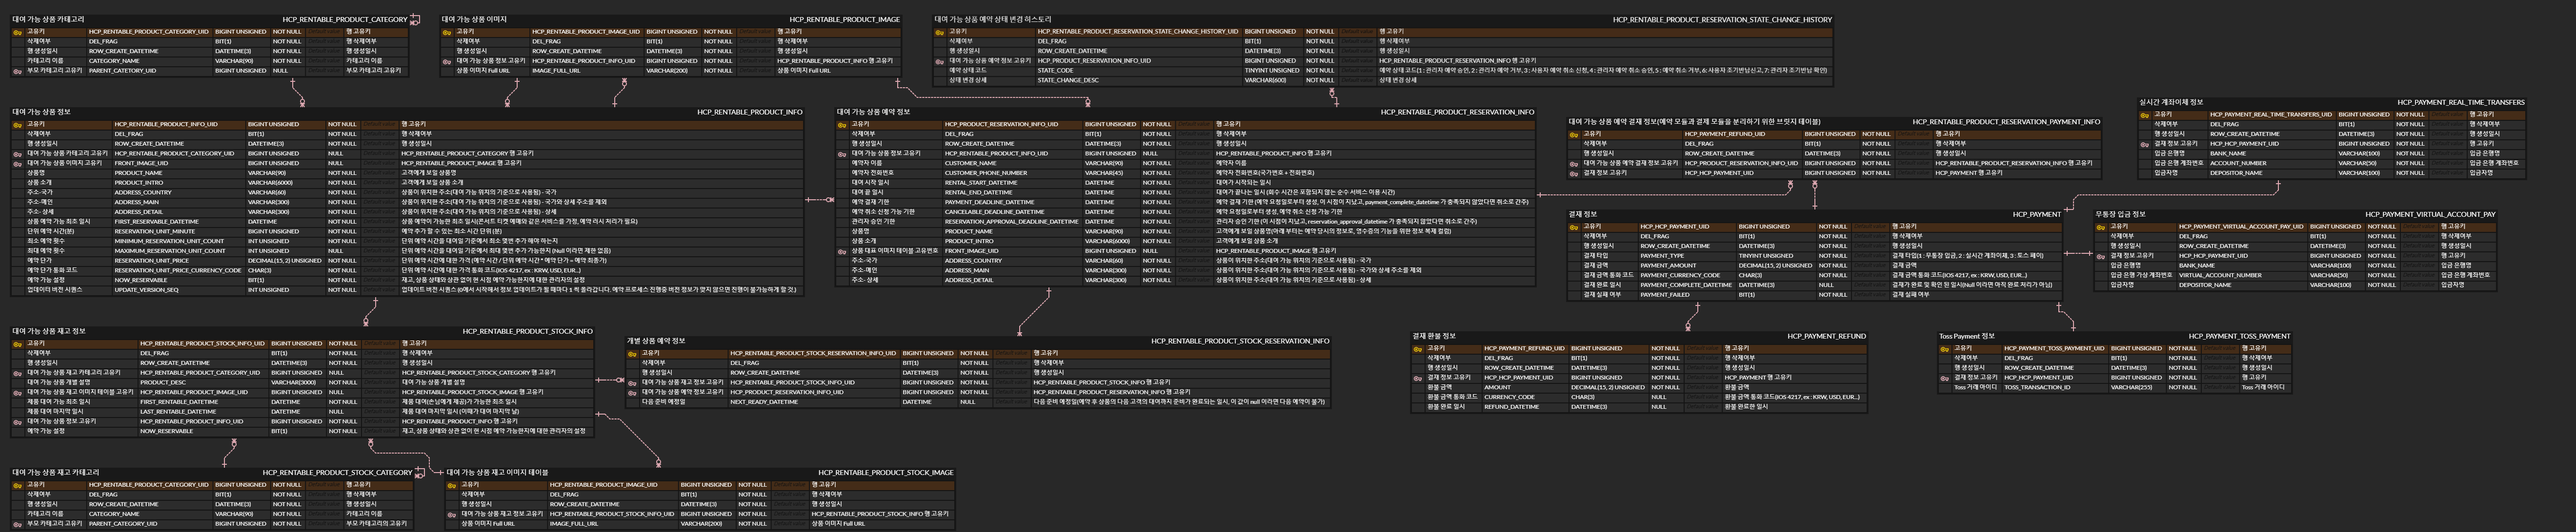
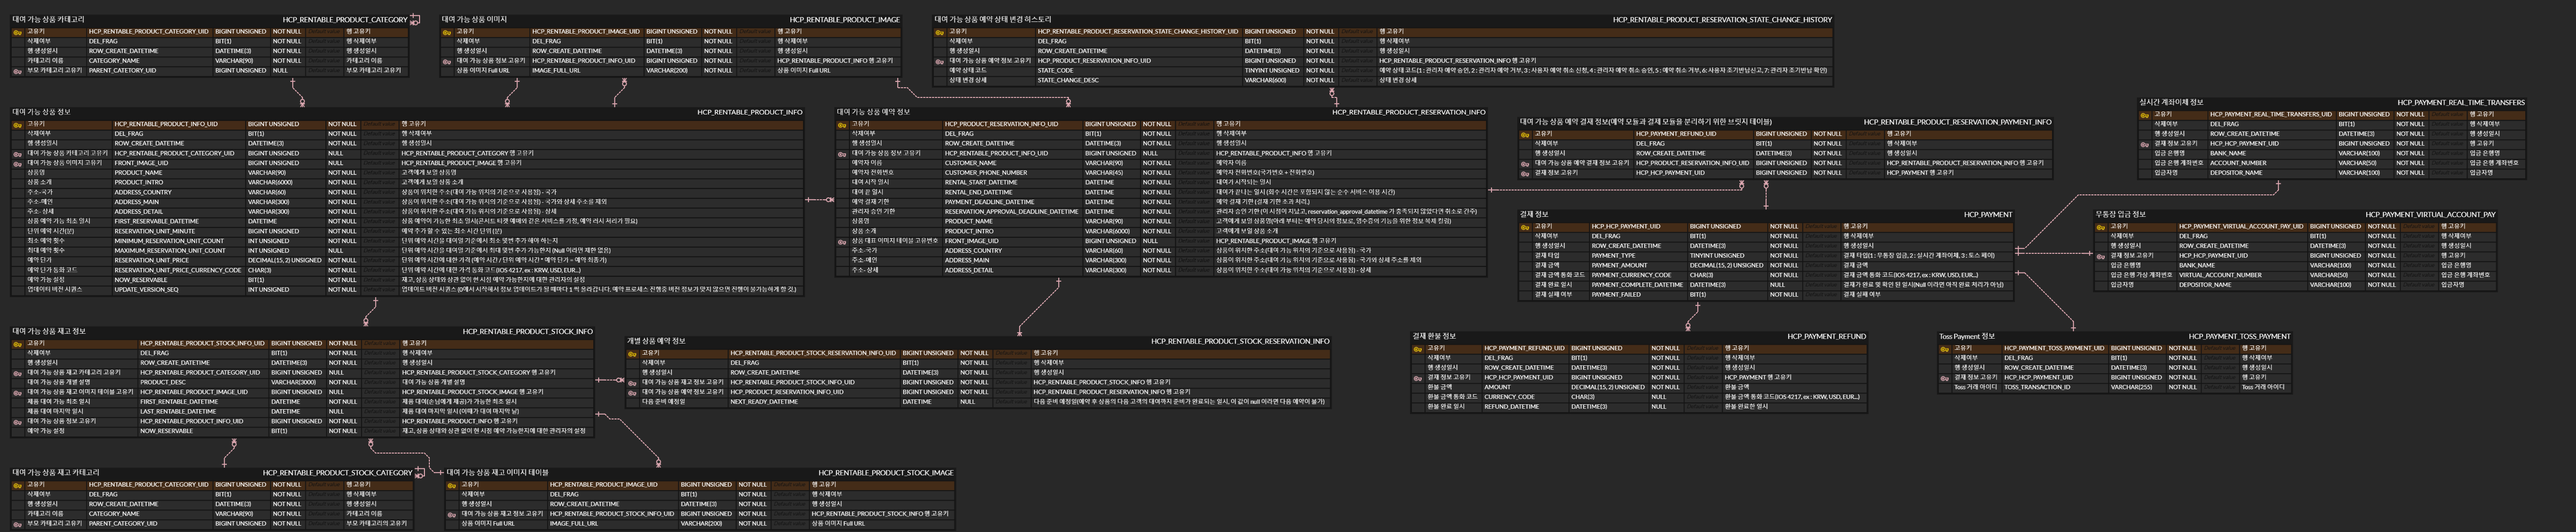
update : 설계 수정

diff --git a/module-service-rental-reservation/src/main/kotlin/com/raillylinker/module_service_rental_reservation/jpa_beans/db1_main/entities/Db1_RaillyLinkerCompany_RentableProductReservationInfo.kt b/module-service-rental-reservation/src/main/kotlin/com/raillylinker/module_service_rental_reservation/jpa_beans/db1_main/entities/Db1_RaillyLinkerCompany_RentableProductReservationInfo.kt
@@ -39,10 +39,6 @@ class Db1_RaillyLinkerCompany_RentableProductReservationInfo(
     @Comment("예약 결재 기한 (예약 요청일로부터 생성, 이 시점이 지났고, payment_complete_datetime 가 충족되지 않았다면 취소로 간주)")
     var paymentDeadlineDatetime: LocalDateTime,
 
-    @Column(name = "cancelable_deadline_datetime", nullable = false, columnDefinition = "DATETIME")
-    @Comment("예약 요청일로부터 생성, 예약 취소 신청 가능 기한")
-    var cancelableDeadlineDatetime: LocalDateTime,
-
     @Column(name = "reservation_approval_deadline_datetime", nullable = false, columnDefinition = "DATETIME")
     @Comment("관리자 승인 기한 (이 시점이 지났고, reservation_approval_datetime 가 충족되지 않았다면 취소로 간주)")
     var reservationApprovalDeadlineDatetime: LocalDateTime,

diff --git a/module-service-rental-reservation/src/main/kotlin/com/raillylinker/module_service_rental_reservation/services/RentalReservationAdminService.kt b/module-service-rental-reservation/src/main/kotlin/com/raillylinker/module_service_rental_reservation/services/RentalReservationAdminService.kt
@@ -1,8 +1,6 @@
 package com.raillylinker.module_service_rental_reservation.services
 
 import com.raillylinker.module_service_rental_reservation.util_components.JwtTokenUtil
-import com.raillylinker.module_service_rental_reservation.configurations.SecurityConfig.AuthTokenFilterTotalAuth.Companion.AUTH_JWT_CLAIMS_AES256_ENCRYPTION_KEY
-import com.raillylinker.module_service_rental_reservation.configurations.SecurityConfig.AuthTokenFilterTotalAuth.Companion.AUTH_JWT_CLAIMS_AES256_INITIALIZATION_VECTOR
 import com.raillylinker.module_service_rental_reservation.configurations.jpa_configs.Db1MainConfig
 import com.raillylinker.module_service_rental_reservation.controllers.RentalReservationAdminController
 import com.raillylinker.module_service_rental_reservation.jpa_beans.db1_main.entities.Db1_RaillyLinkerCompany_RentableProductCategory
